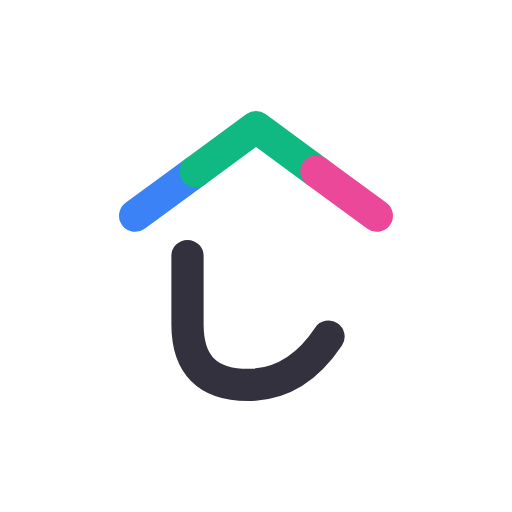
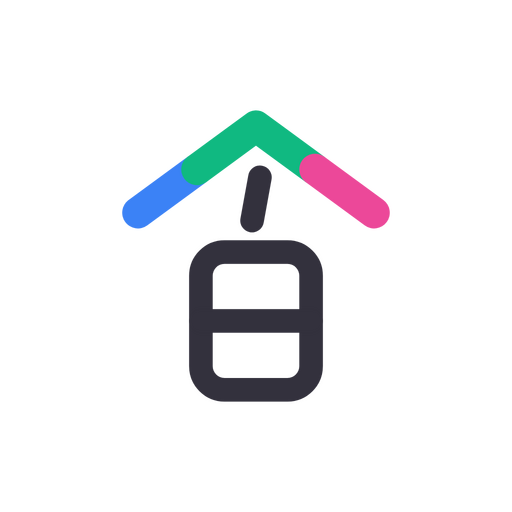
アイコンの「し」を「白」に変える（点を中央に寄せ、「日」の角を丸める）
- 原図 docs/family-app-icon.svg と src/app/icon.svg を差し替え
- mobile/assets/ 一式、PWAのicon-192/512・apple-icon・faviconを原図から書き出し直し
- docs/family-app.md §4.4 の絵柄の記述を「白」に更新

Claude-Session: https://claude.ai/code/session_01SmreaCSDMaUAm39MWo29Pt

diff --git a/docs/family-app.md b/docs/family-app.md
@@ -197,10 +197,10 @@
 
 - 表示名を「かぞく手帳」に変える（`mobile/app.config.js` の `name`、PWAのmanifest・タイトル、ストア掲載情報）
 - アイコン（`mobile/assets/` のicon・adaptive icon・splash・通知アイコン、PWAのアイコン）を作り直す
-  - 絵柄: 白地に、屋根と「し」（白石家の頭文字）。「し」は屋根と同じ太さの線で描く（書体に頼らない）
-  - 配色: 屋根を3人の色（青・翠・桃）、「し」は墨色（D4）。「し」の幅の中心を屋根の頂点にそろえる
+  - 絵柄: 白地に、屋根と「白」（白石家の頭文字）。「白」は点（ノ）を中央に寄せ、「日」の角を丸めて線で描く（書体に頼らない）
+  - 配色: 屋根を3人の色（青・翠・桃）、「白」は墨色（D4）。「白」の点を屋根の頂点の真下にそろえる
   - 原図: `docs/family-app-icon.svg`。アイコン一式はここから書き出す
-  - 単色版（通知・テーマアイコン）は屋根と「し」の線だけ
+  - 単色版（通知・テーマアイコン）は屋根と「白」の線だけ
 - **パッケージ名・slug・Supabaseのプロジェクトは変えない**（変えると別アプリ扱いになり、更新で引き継げない）
 
 ## 5. 進め方（PR分割案）
